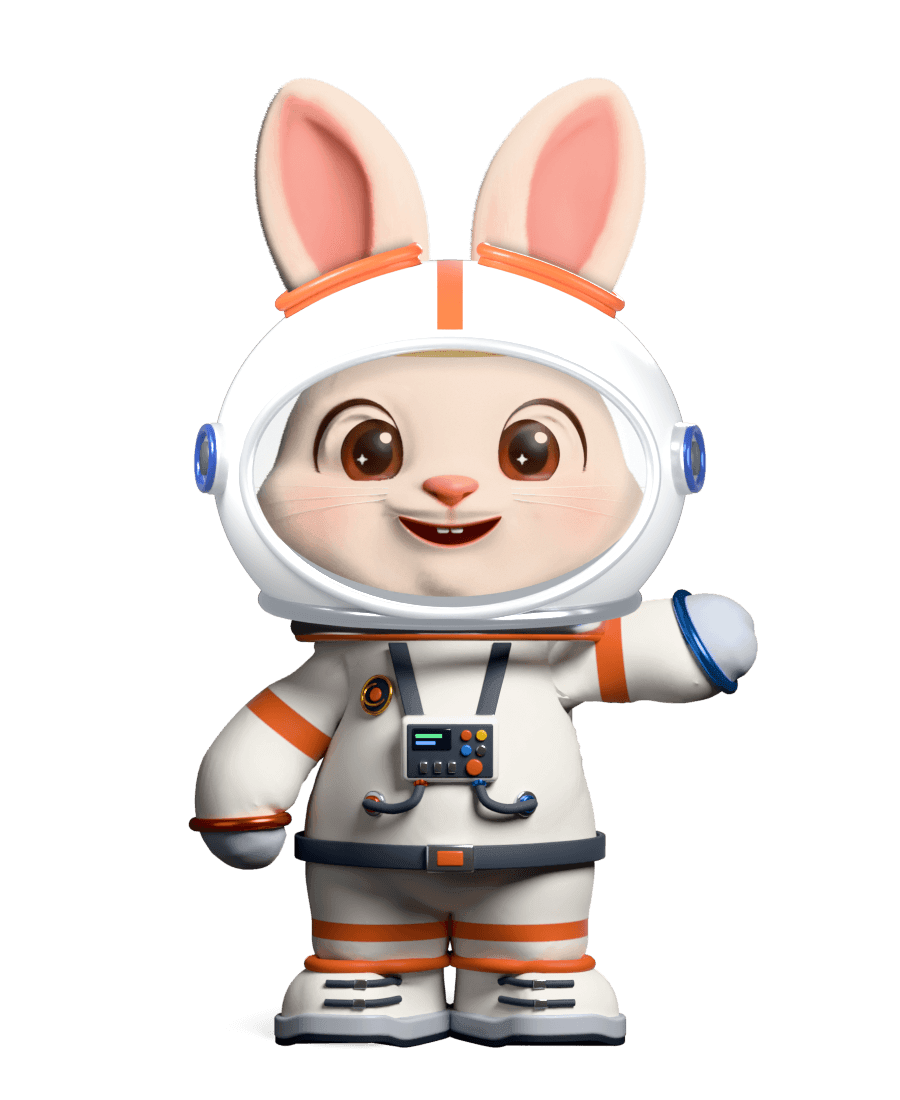
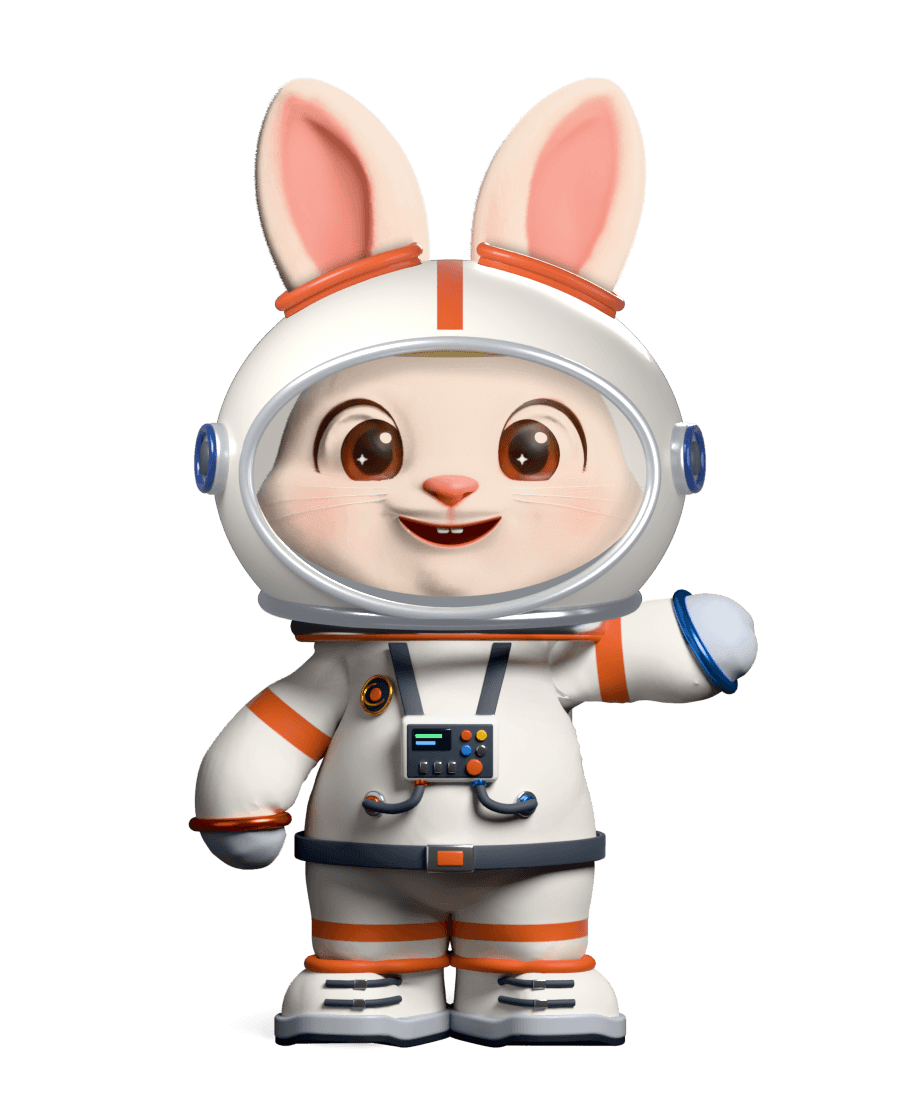
Rabi'yi Giydir: Astronot kaskının renkleri giysiyle eşlendi
- Kabuk saf beyaz yerine giysinin sıcak krem beyazı; turuncu şerit ve kulak
  yuvaları giysi şeritleriyle, yan disk halkaları bilek halkalarıyla aynı ton.
- Işık kısıldı (pozlama −0,75): kask tepesi patlamıyor.
- İkon yeniden kırpıldı; maskot kuralına renk ölçüleri yazıldı.

Claude-Session: https://claude.ai/code/session_01N5eM5Zhn9zt8LXE1kyh4Qh

Changed region(s): [[0.2178, 0.2164, 0.8089, 0.5873]]

diff --git a/docs/kurallar/maskot-ve-ikon.md b/docs/kurallar/maskot-ve-ikon.md
@@ -162,6 +162,9 @@ Rabi proje kurallarının bir parçası — dizin ve genel kurallar: [AGENTS.md]
     yanlarda mavi halkalı diskler (bilek halkalarıyla aynı mavi), altın güneşlik yukarıda
     (açıklığın tepesinde ince şerit). Cam yalnız Fresnel yansıması + yumuşak pencere ışığı:
     yansıma paneli yüze denk gelince gözün yanında dikdörtgen leke bırakıyordu.
+    **Renkler giysiden ölçülür** (kullanıcı uyumsuz buldu, 2026-11-03): kabuk giysinin sıcak
+    krem beyazı (sRGB 236,230,220), turuncu 214,84,30, mavi 18,68,148; pozlama −0,75. Saf
+    beyaz kabuk ve parlak turuncu giysinin yanında patlamış, ayrı parça gibi duruyordu.
     - Kask kasksız render'ın üstüne **bindirilir** (`astronot_kask.py` Blender'da kaskı
       kurup katmanları çizer, `astronot_birlestir.py` birleştirir): arka kabuk → Rabi → ön
       kabuk → yuvanın arka yayı → kulağın dışarıdaki kısmı → yuvanın ön yayı. Ön/arka
